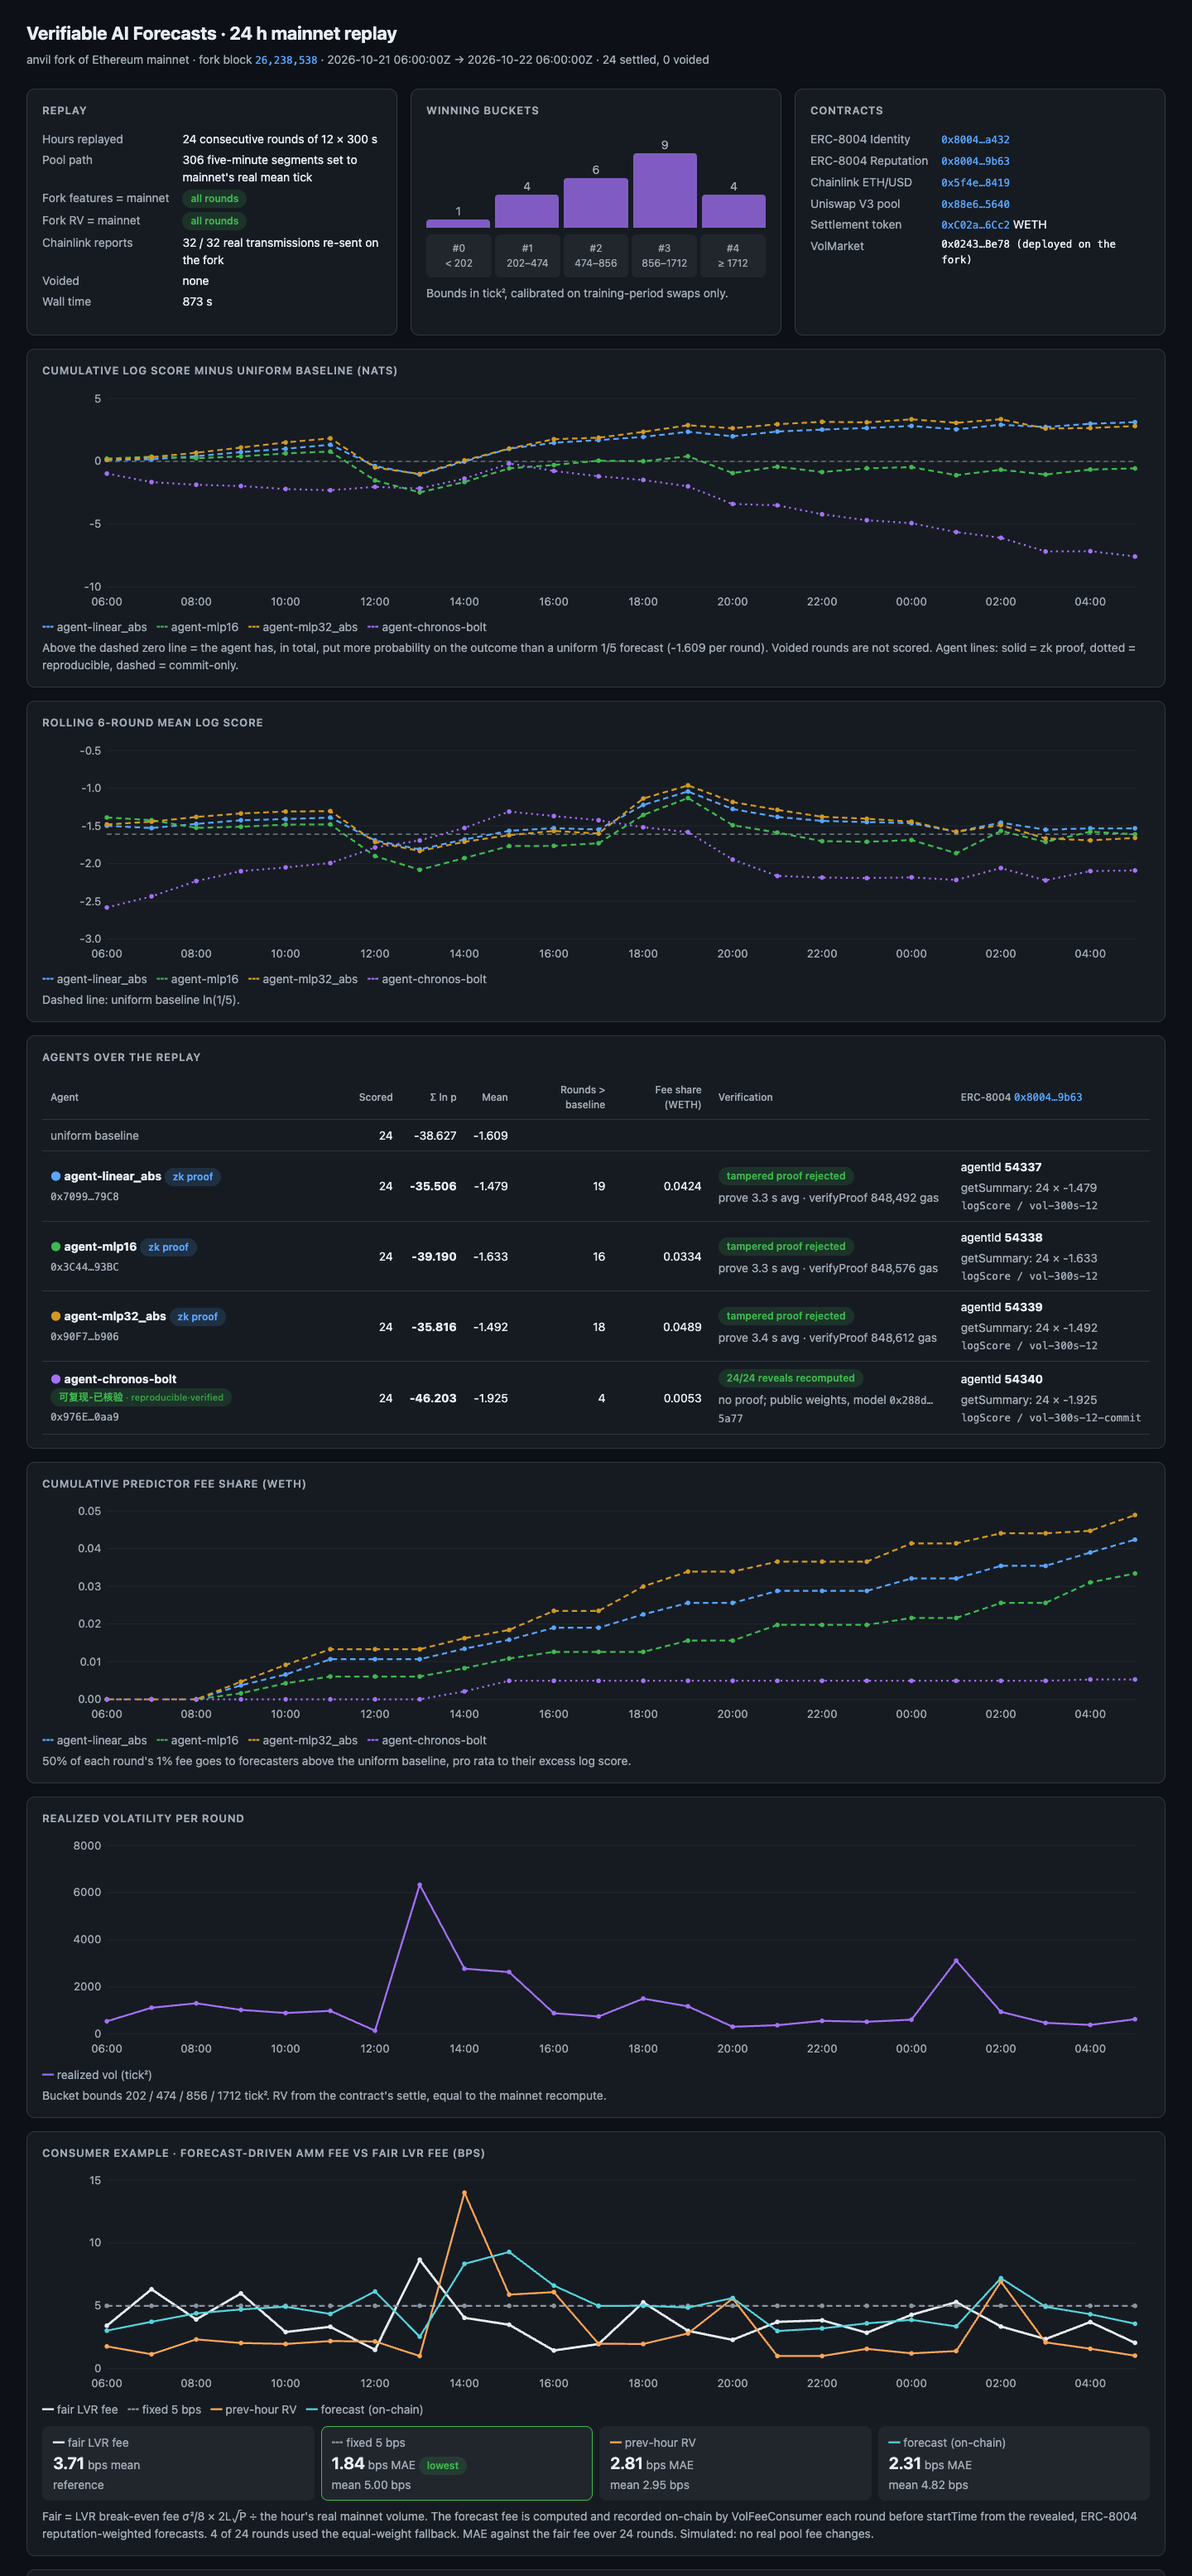
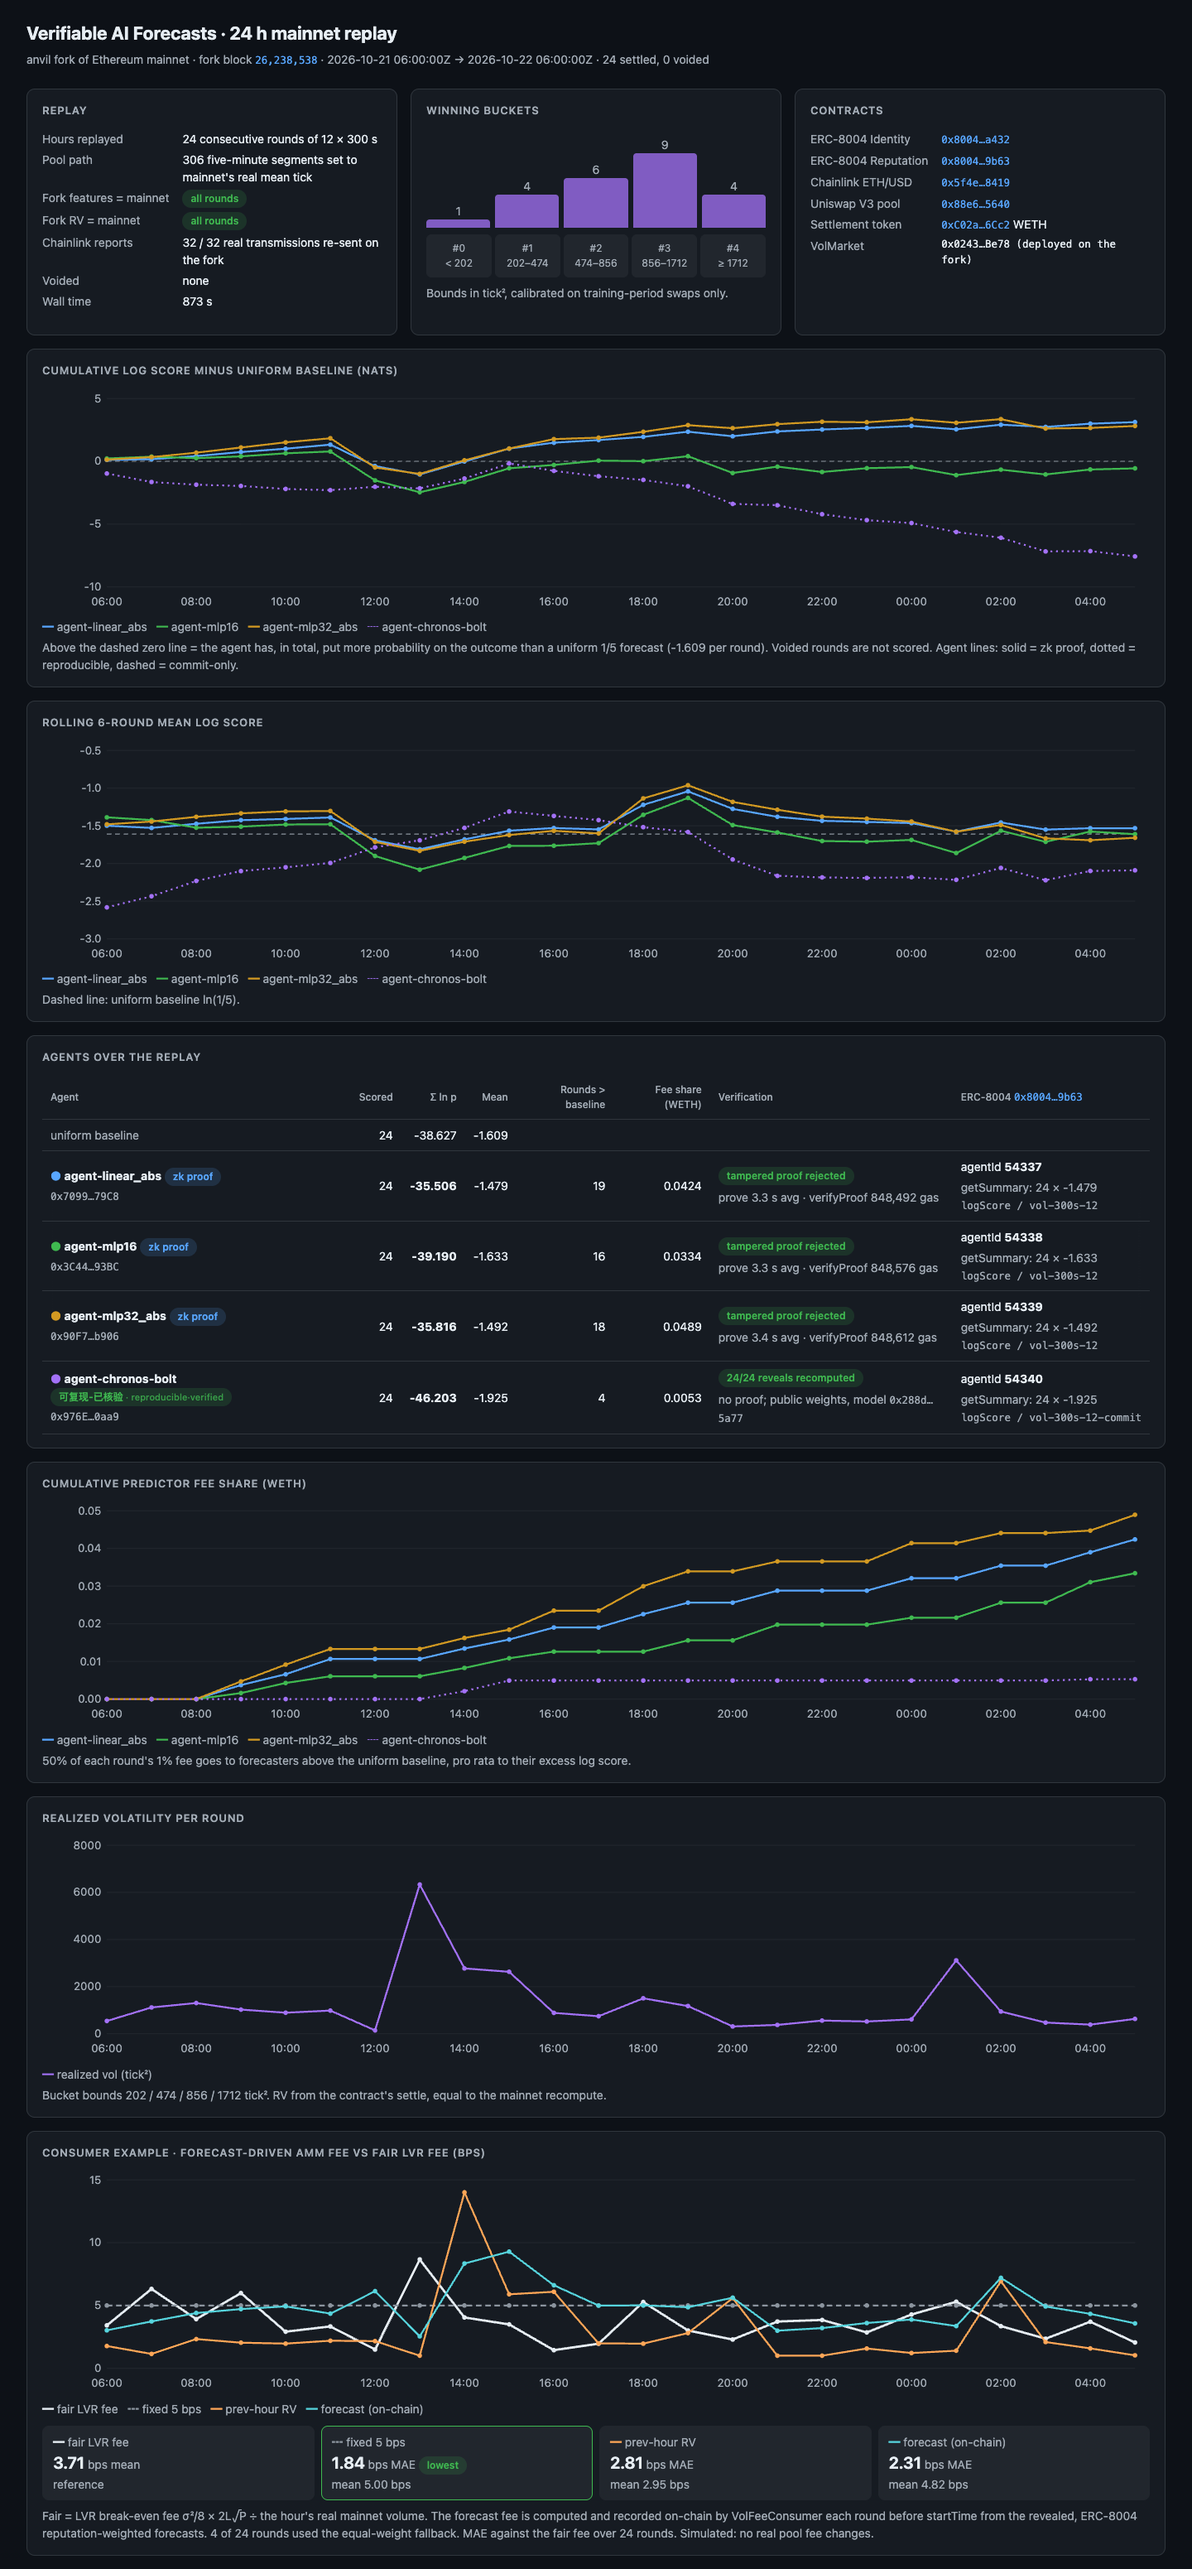
chore: auto-evolve milestone Stage-1 completed (三处互不相交的缺口：c1 round._registered_agent_id 按 Registered topic0 取 agentId（兜底 mint Transfer，都无则 raise）；c2 只加测试守住 repro_runner.predict 的负值截断与单调修正；c4 看板回放视图线型与图例按档位（zk 实线/可复现点线/仅承诺虚线）并重拍截图)
Engine: goal
Evidence: bash docs/.local/probes/me1_probe.sh :: 44 -> 0 (target 0, met)
Waivers: 0
Macro-ID: macro-1792748353-75505

diff --git a/dashboard/index.html b/dashboard/index.html
@@ -282,7 +282,7 @@ function lineChart(series, labels, { zero = null, fmt = null, tip = null, H = 24
     return `<path d="${d}" fill="none" stroke="${s.color}" stroke-width="${s.width ?? 2}" ${s.dash ? `stroke-dasharray="${s.dash}"` : ""}/>${dots}`;
   }).join("");
   const zl = zero != null ? `<line x1="${L}" x2="${W - R}" y1="${y(zero)}" y2="${y(zero)}" stroke="#8b949e" stroke-dasharray="5 4"/>` : "";
-  const legend = series.map((s) => `<span style="color:${s.color}">${s.dash ? "┅" : "━"}</span> ${s.name}`).join(" &nbsp; ");
+  const legend = series.map((s) => `<span style="color:${s.color}">${!s.dash ? "━" : s.dash === "2 4" ? "┈" : "┅"}</span> ${s.name}`).join(" &nbsp; ");
   return `<svg viewBox="0 0 ${W} ${H}" width="100%">${grid}${zl}${lines}${xl}</svg><div class="sub">${legend}</div>`;
 }
 
@@ -296,7 +296,7 @@ function renderReplay({ data: d, src }) {
     `<section${id ? ` id="${id}"` : ""} class="card ${cls}"><h2>${title}</h2>${html}</section>`;
   const tierOf = (a) => a.tier ?? (a.model_type === "zk" ? "zk" : "commit-only");
   const isZk = (a) => tierOf(a) === "zk";
-  const dashOf = (a) => ({ zk: null, reproducible: "2 4" })[tierOf(a)] ?? "6 4";
+  const dashOf = (a) => isZk(a) ? null : tierOf(a) === "reproducible" ? "2 4" : "6 4";
   const repro = (a) => {
     const flags = rounds.map((r) => r.agents[a.agent]?.reproduced).filter((v) => v != null);
     return { checked: flags.length, failed: flags.filter((v) => v === false).length };

diff --git a/agents/tests/test_repro_postprocess.py b/agents/tests/test_repro_postprocess.py
@@ -1,0 +1,86 @@
+"""Post-processing in `repro_runner.predict`: per-step quantiles are clamped at zero before being
+summed across steps, and crossing sums are rearranged upward. Fake `torch` and `chronos` modules
+stand in for the model, so these tests need neither VOL_REPRO_PYTHON nor downloaded weights."""
+
+import contextlib
+import sys
+import types
+
+from vol_agents import repro_runner as rr
+
+FEATURES = [128 * k for k in range(rr.N_FEATURES)]
+
+
+class _FakeQuantiles:
+    def __init__(self, steps):
+        self._steps = steps
+
+    def __getitem__(self, idx):
+        assert idx == 0
+        return types.SimpleNamespace(tolist=lambda: [list(s) for s in self._steps])
+
+
+def _install_fakes(monkeypatch, steps):
+    calls = {}
+
+    class Pipeline:
+        def predict_quantiles(self, context, prediction_length, quantile_levels):
+            calls["context"] = context
+            calls["prediction_length"] = prediction_length
+            calls["quantile_levels"] = quantile_levels
+            return _FakeQuantiles(steps), None
+
+    class BaseChronosPipeline:
+        @staticmethod
+        def from_pretrained(path, **kwargs):
+            calls["path"] = path
+            return Pipeline()
+
+    torch = types.ModuleType("torch")
+    torch.float32 = "float32"
+    torch.set_num_threads = lambda n: None
+    torch.use_deterministic_algorithms = lambda flag: None
+    torch.tensor = lambda data, dtype=None: ("tensor", data, dtype)
+    torch.no_grad = contextlib.nullcontext
+    chronos = types.ModuleType("chronos")
+    chronos.BaseChronosPipeline = BaseChronosPipeline
+
+    monkeypatch.setitem(sys.modules, "torch", torch)
+    monkeypatch.setitem(sys.modules, "chronos", chronos)
+    monkeypatch.setattr(rr, "artifact_paths", lambda: None)
+    # predict() writes HF_HUB_OFFLINE; registering it with monkeypatch restores it afterwards
+    monkeypatch.setenv("HF_HUB_OFFLINE", "1")
+    return calls
+
+
+def _steps(first, rest):
+    assert len(first) == len(rest) == len(rr.QUANTILE_LEVELS)
+    return [first] + [rest] * (rr.PREDICTION_LENGTH - 1)
+
+
+def test_negative_step_quantiles_are_clamped_before_summing(monkeypatch):
+    assert rr.PREDICTION_LENGTH == 11 and len(rr.QUANTILE_LEVELS) == 9
+    steps = _steps([-2.0, -1.0, -0.5, 0.0, 0.5, 1.0, 1.5, 2.0, 2.5],
+                   [0.25, 0.5, 0.75, 1.0, 1.25, 1.5, 1.75, 2.0, 2.25])
+    calls = _install_fakes(monkeypatch, steps)
+
+    out = rr.predict(FEATURES)
+
+    # clamped first step [0, 0, 0, 0, .5, 1, 1.5, 2, 2.5] plus 10 * the rest
+    assert out["values"] == [2.5, 5.0, 7.5, 10.0, 13.0, 16.0, 19.0, 22.0, 25.0]
+    assert out["levels"] == list(rr.QUANTILE_LEVELS)
+    assert calls["path"] == str(rr.snapshot_dir())
+    assert calls["prediction_length"] == rr.PREDICTION_LENGTH
+    assert calls["quantile_levels"] == list(rr.QUANTILE_LEVELS)
+    assert calls["context"][1] == [rr.series_from_features(FEATURES)]
+
+
+def test_crossing_sums_are_rearranged_upward(monkeypatch):
+    steps = _steps([4.0, 0.0, 9.0, 0.0, 0.0, 0.0, 0.0, 0.0, 0.0],
+                   [1.0, 1.0, 1.0, 1.0, 2.0, 2.0, 2.0, 3.0, 3.0])
+    _install_fakes(monkeypatch, steps)
+
+    out = rr.predict(FEATURES)
+
+    # clamped sums [14, 10, 19, 10, 20, 20, 20, 30, 30] cross at levels 0.2 and 0.4
+    assert out["values"] == [14.0, 14.0, 19.0, 19.0, 20.0, 20.0, 20.0, 30.0, 30.0]

diff --git a/agents/vol_agents/round.py b/agents/vol_agents/round.py
@@ -36,6 +36,10 @@ COMMIT_LEAD = 300
 REVEAL_LEAD = 60
 # ERC-8004 agent metadata URI: deterministic and never resolved, so a round stays reproducible.
 AGENT_URI = "https://example.invalid/agents/{name}"
+# keccak256("Registered(uint256,string,address)")
[1 lines of base64/hex data omitted]
+# keccak256("Transfer(address,address,uint256)")
[1 lines of base64/hex data omitted]
 
 
 def history_ticks():
@@ -59,16 +63,25 @@ class Deployment:
 
 
 def _registered_agent_id(receipt: dict) -> int:
-    """The agentId minted by `register`, read from the Registered event of its receipt.
+    """The agentId minted by `register`, read from the events of its receipt.
 
-    The Lite identity registry emits exactly one event per registration and the agentId is
-    its first indexed topic.
+    The Lite identity registry emits only Registered(agentId indexed, ...); an ERC-721 ERC-8004
+    registry also emits a mint Transfer(0, owner, tokenId) that may come first. Registered is
+    preferred, the mint Transfer is the fallback, and a receipt with neither raises instead of
+    returning a default id.
     """
-    for log in receipt.get("logs") or []:
-        topics = log.get("topics") or []
-        if len(topics) >= 2:
+    logs = [
+        [t.lower() for t in (log.get("topics") or [])] for log in receipt.get("logs") or []
+    ]
+    for topics in logs:
+        if len(topics) >= 2 and topics[0] == REGISTERED_TOPIC:
             return int(topics[1], 16)
-    raise RuntimeError(f"identity registration receipt has no Registered event: {receipt}")
+    for topics in logs:
+        if len(topics) >= 4 and topics[0] == TRANSFER_TOPIC and int(topics[1], 16) == 0:
+            return int(topics[3], 16)
+    raise RuntimeError(
+        f"identity registration receipt has no Registered or mint Transfer event: {receipt}"
+    )
 
 
 def register_identity(chain: Anvil, identity: str, key: str, uri: str) -> int:

diff --git a/agents/tests/test_round_agent_id.py b/agents/tests/test_round_agent_id.py
@@ -1,0 +1,47 @@
+import pytest
+
+from vol_agents.chain import keccak
+from vol_agents.round import _registered_agent_id
+
+REGISTERED = keccak(b"Registered(uint256,string,address)")
+TRANSFER = keccak(b"Transfer(address,address,uint256)")
+OWNER = "0x" + "00" * 12 + "70997970c51812dc3a010c7d01b50e0d17dc79c8"
+
+
+def word(n: int) -> str:
+    return "0x" + format(n, "064x")
+
+
+def unrelated():
+    return {"topics": [word(0xBEEF), word(0xDEAD)]}
+
+
+def mint(token_id: int, sender: int = 0):
+    return {"topics": [TRANSFER, word(sender), OWNER, word(token_id)]}
+
+
+def registered(agent_id: int):
+    return {"topics": [REGISTERED.upper().replace("0X", "0x"), word(agent_id), OWNER]}
+
+
+def test_registered_wins_over_earlier_unrelated_and_transfer_logs():
+    receipt = {"logs": [unrelated(), mint(43), registered(42)]}
+    assert _registered_agent_id(receipt) == 42
+
+
+def test_registered_after_transfer():
+    assert _registered_agent_id({"logs": [mint(42), registered(42)]}) == 42
+
+
+def test_lite_registry_emits_only_registered():
+    assert _registered_agent_id({"logs": [registered(7)]}) == 7
+
+
+def test_falls_back_to_mint_transfer():
+    assert _registered_agent_id({"logs": [mint(42)]}) == 42
+
+
+def test_non_mint_transfer_raises():
+    receipt = {"logs": [unrelated(), mint(42, sender=0x1234)]}
+    with pytest.raises(RuntimeError):
+        _registered_agent_id(receipt)
